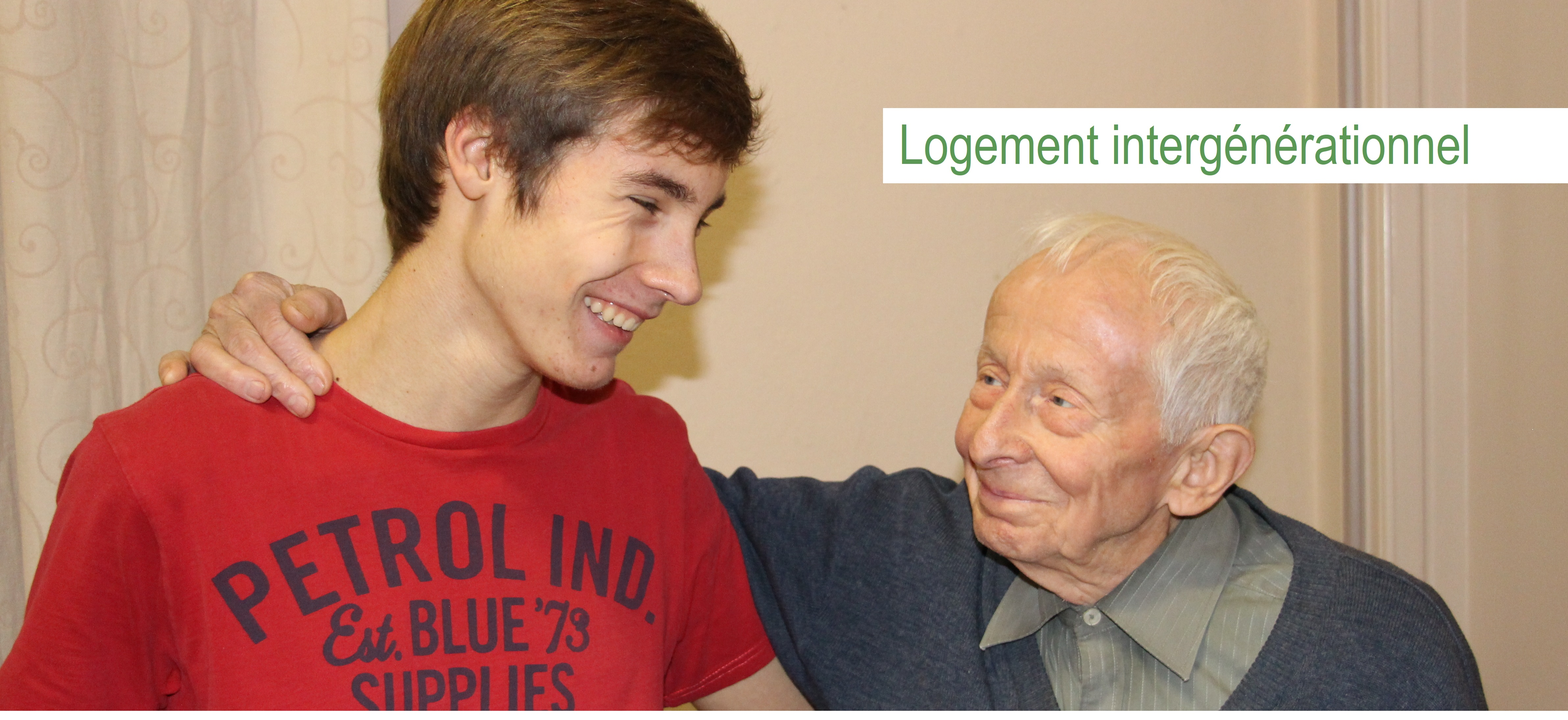
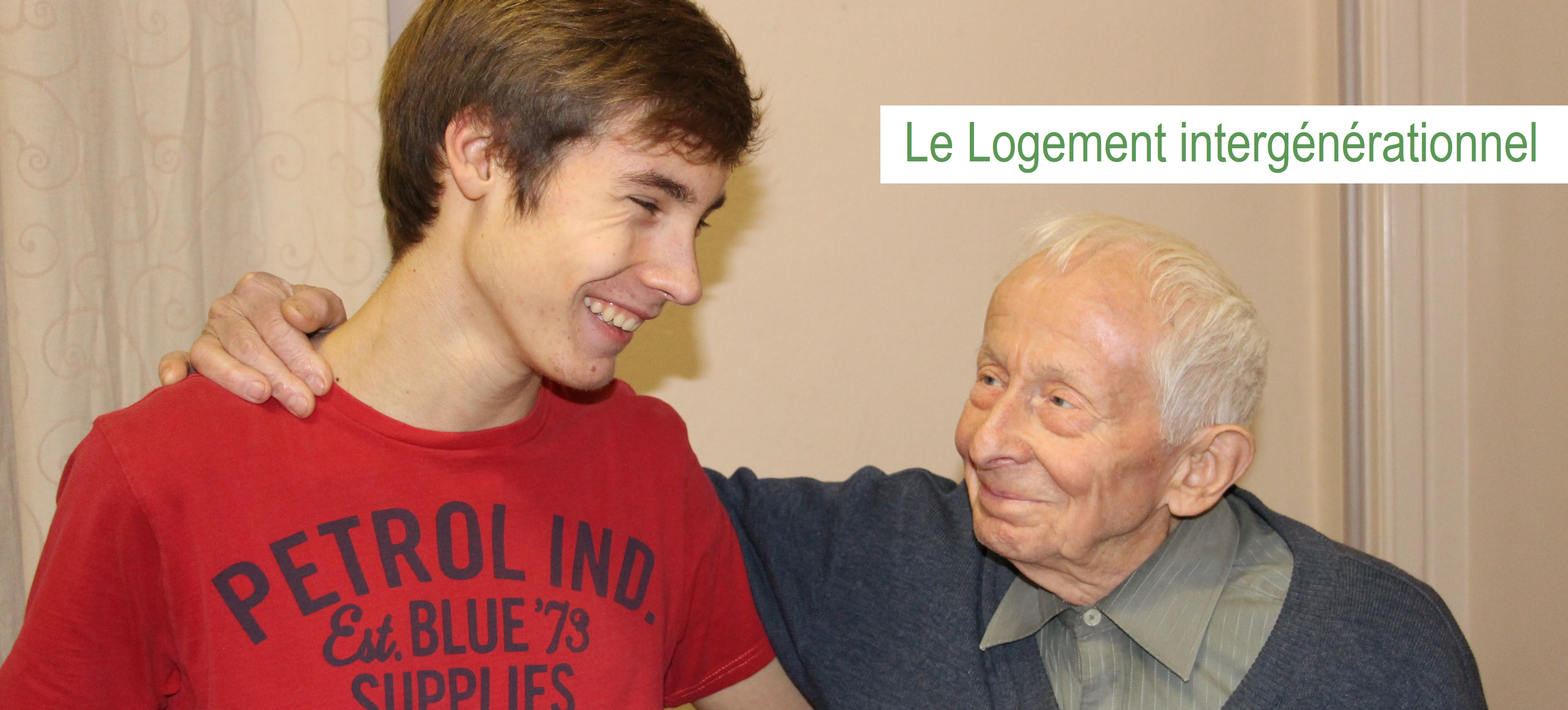
m

diff --git a/app/assets/stylesheets/register_and_contact.scss b/app/assets/stylesheets/register_and_contact.scss
@@ -5,3 +5,10 @@
   padding-bottom: 8px;
   padding-left: 0%;
 }
+
+.register_bandeau {
+  padding-top: 1px;
+  padding-bottom: 9px;
+  background-color: #589d4e;
+  color: white;
+}
